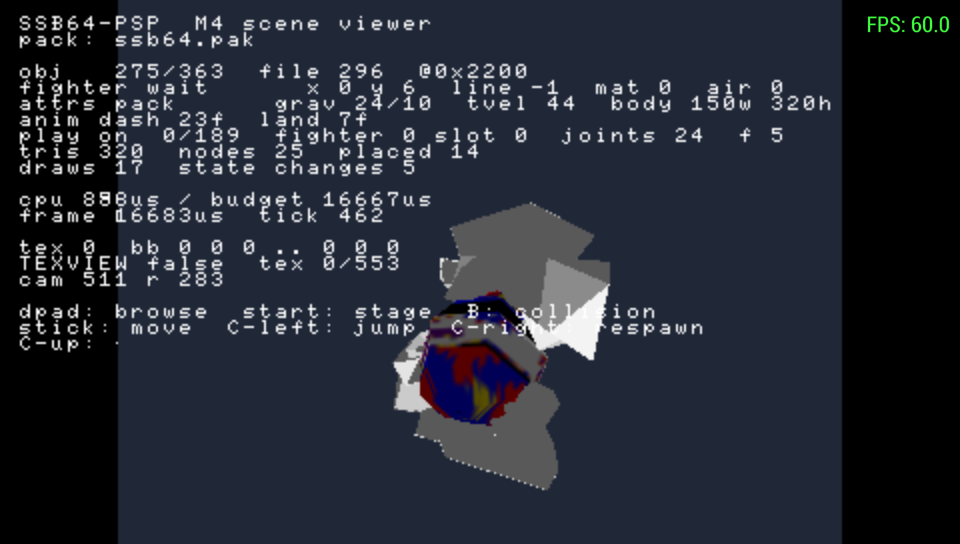
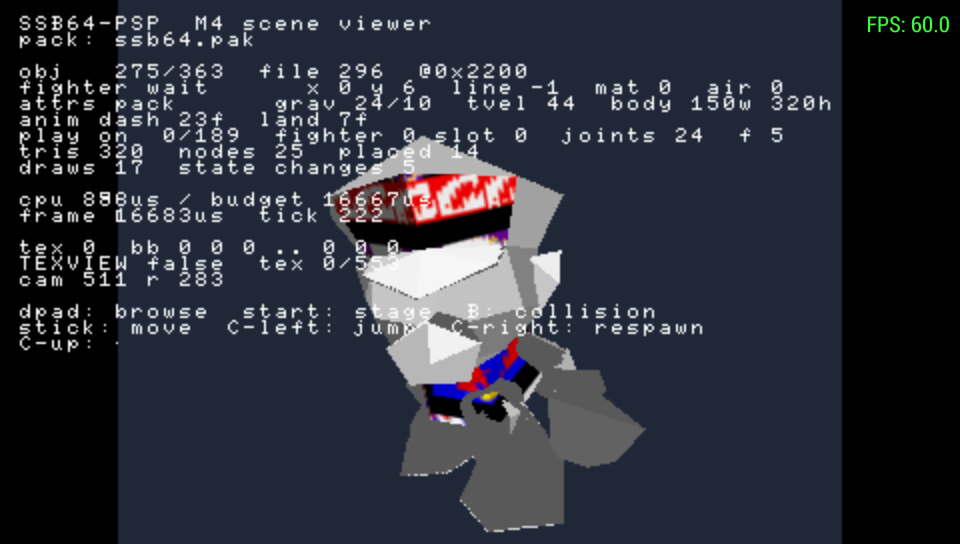
Narrow the wrong pose to one axis, and stop the viewer spinning
No fix yet. What this does is make the next attempt start from
measurements instead of from three screenshots taken at three
different angles.

That was the first thing wrong, and it was mine: the viewer advances
`spin` every tick unconditionally, so an 8-second capture shows the
model a turn and a half round from a 4-second one, and I had been
comparing them as though the difference were the pose. Playback now
holds the angle still, which is the only way the mode is usable for
what it exists for.

With the angle frozen and the extent measured per frame, the error is
on one axis: X and Y stay where they belong and Z goes from a 5-unit
spread at rest to 220. It is there at frame 0 rather than
accumulating. Z is not automatically wrong -- Mario's model is
authored facing +Z, so a leg swinging in Z is a leg swinging forward
-- but both ankles 89 units off the ground on a grounded dash is not a
stride.

Five more explanations are eliminated by measurement rather than by
reading: the rotation order (from_trs matches syMatrixRotRpyRF term
for term, and the PyrR alternative renders visibly worse), the
track-to-axis mapping, the setup_parts bit order at the raw-word
level, sibling ordering (gcAddChildForDObj appends, so a tree walk is
array order -- prepending would have looked exactly like this), and
translation and scale, which barely move.

RE-038 now names the two candidates left, with unclamped cubic
extrapolation first: the measured extent peaks mid-animation and comes
[…]

Changed region(s): [[0.3438, 0.25, 0.6875, 1.0]]

diff --git a/psp/src/main.rs b/psp/src/main.rs
@@ -483,12 +483,20 @@ unsafe fn run() -> ! {
             // while a fighter is being driven, where it is the fighter's input
             // and a camera that swung with it would be unreadable.
             let stick_drives_fighter = stage_view && sim_fighter && player.is_some();
-            spin += 0.02
-                + if stick_drives_fighter {
-                    0.0
-                } else {
-                    state.stick_x as f32 * 0.0005
-                };
+            // The slow drift exists so a *static* model can be seen from all
+            // sides without touching anything. While an animation is playing it
+            // makes the thing being judged unjudgeable: two captures seconds
+            // apart differ by most of a turn, and the difference reads as the
+            // pose having changed. That cost real time (RE-038), so playback
+            // holds the angle still and leaves the stick in charge.
+            if !anim_playing {
+                spin += 0.02;
+            }
+            spin += if stick_drives_fighter {
+                0.0
+            } else {
+                state.stick_x as f32 * 0.0005
+            };
             if spin > 2.0 * PI {
                 spin -= 2.0 * PI;
             }

diff --git a/docs/reverse-engineering.md b/docs/reverse-engineering.md
@@ -2123,25 +2123,80 @@ not:
    triangles between them, one list per node. Every mesh is rigid under its own
    joint.
 
-**What the numbers point at.** Mario's rest pose is essentially planar — every
-node sits within 5 units of `z = 0`. Twelve frames into the dash the composed
-matrices put a foot at `z = -133.8` and a hand at `z = +83.9`. Smash 64
-animations move in X and Y with small Z excursions; 130 units of depth on a
-320-tall fighter is not a pose, it is an axis. The individual joint values are
-not obviously wrong — joint 2 reads `r (0.86, 0.49, 0.15)` at frame 12 against
-`(0.45, 0.50, 0.21)` at frame 23 — so the suspicion is the *rotation* half of
-the transform rather than the interpolation feeding it: the track-to-axis
-mapping, or the order `from_trs` applies them in, being right for the small
-rest-pose rotations that the composition test covers and wrong for large ones.
+**A methodological error, corrected.** The first three screenshots were read as
+"the model is exploded". They were taken at three different, arbitrary
+rotations: the viewer does `spin += 0.02` every tick unconditionally, so an
+8-second capture shows the object a turn and a half round from where a
+4-second one does. Any comparison between them was worthless. Freezing the spin
+is what made the rest of this measurable.
 
-**Not yet investigated.** Whether `ftAnimGetTargetValue`'s `1/512` is radians at
-all, rather than a fixed-point turn; whether `nGCAnimTrackRotX..Z` map onto
-`from_trs`'s `r[0..2]` in that order; and whether the `0x8000` transform kind
-(`RecalcRotRpyRSca`, which `DObjDesc::transform_kind` already distinguishes and
-the packer currently ignores) changes how a node composes its rotation. That
-last one is the strongest lead: the packer bakes every node with `from_trs`
-regardless of its kind, which is invisible at rest if the kinds agree there.
+**Where the error actually is, measured.** Composing Mario's dash frame by
+frame and taking the extent of the mesh-bearing nodes:
 
-**Confidence: high** that the pipeline runs and that the three ruled-out causes
-are ruled out. **The pose is not validated and should not be described as
-working.** The viewer ships with playback off by default.
+```
+rest      x  -87.6..87.6   y    8.2..235.6   z   -4.5..0.1
+frame  0  x  -97.8..88.5   y   34.2..230.5   z  -76.1..69.6
+frame 12  x  -89.1..97.3   y   89.5..244.8   z -133.8..83.9
+frame 23  x  -95.7..53.9   y   17.1..220.4   z  -38.7..87.6
+```
+
+**X stays right. Y is plausible. Z goes from a 5-unit spread to a 220-unit
+one.** The error is on one axis, and it is there from frame 0 rather than
+accumulating.
+
+Z is not automatically wrong, though, and this is the part that took longest to
+get right: **Mario's model is authored facing +Z**, not +X. His shoulders span
+X (nodes at `x = ±70`), and the one descriptor `setup_parts` excludes sits at
+`z = +120`, in front of him. So a leg swinging in Z is a leg swinging
+*forward*, which is what a dash does. A stride of 80 units on a 320-tall
+fighter is a stride, not a fault. What is not plausible is both ankle nodes
+sitting 89 units off the ground at frame 12 of a grounded dash, and the head
+detaching from the neck.
+
+**Ruled out since, each by measurement rather than by reading.**
+
+* *The rotation order.* `syMatrixRotRpyRF` was compared with `Mat4::from_trs`
+  term for term — all nine elements agree once the row-major/column-major
+  transpose is accounted for, and so does `syMatrixRowscaleF` against the
+  per-column scale. The alternative order the original also ships,
+  `syMatrixRotPyrRF`, was implemented and rendered: it is visibly worse. RPY is
+  right.
+* *The track-to-axis mapping.* `FT_ANIM_ROTX/Y/Z` are bits 0/1/2, and
+  `gcPlayDObjAnimJoint` writes them to `rotate.x/y/z` in that order. Both match.
+* *The joint-to-node mapping, again, at the bit level.* Mario's `setup_parts`
+  words are `0xffffff00 0x00000000`; read most-significant-bit-first that is
+  descriptors 0..23, which is what the runtime uses. Samus's `0xfff803ff`
+  round-trips through the same reading to a 23-bit mask with a nine-descriptor
+  gap in the middle, matching her joint count.
+* *Sibling order.* `gcAddChildForDObj` walks to the end of the sibling list and
+  **appends**, so a tree walk visits nodes in descriptor-array order. Had it
+  prepended, every branch point would have been swapped — which would have
+  looked exactly like this.
+* *Translation and scale.* At frame 12 only three of Mario's 24 joints have a
+  translation that differs from rest at all, and every scale is exactly 1.0.
+  The animation moves rotations and the root, which is what a skeleton
+  animation should do.
+
+**What is left.** The individual joint rotations are not obviously wrong —
+joint 2 reads `(0.92, 0.52, 0.15)` at frame 12, a 52-degree torso pitch — but
+they are *large*, and they compound up a chain where a 72-unit neck bone
+amplifies a torso angle into a displaced head. Two candidates remain, in order:
+
+1. **Cubic extrapolation.** `gcGetAObjValue` does not clamp `length` to the
+   track's duration. A track keyed with duration `D` whose clock then advances
+   past `D` extrapolates a cubic, which grows without bound. If a track is
+   being re-keyed less often here than in the original — one missed command, or
+   a `length` reset in the wrong place — every rotation would come out too big
+   in exactly this way, worst in the middle of the animation and recovering at
+   the end. The measured extent does peak at frame 13 and come back by 23.
+2. **The transform kind.** Fighters are set up with `tk1 = 0x4B`, a value that
+   appears in no `case` of the matrix switch in `objdisplay.c`, which only goes
+   to 63. Either the decompilation's argument is wrong at that call site or the
+   kind means something not yet found; until it is known, the packer baking
+   every node with `from_trs` regardless of its `DObjDesc` nibble is an
+   assumption rather than a finding.
+
+**Confidence: high** that the pipeline runs, that the error is confined to one
+axis, and that everything listed above is genuinely eliminated. **The pose is
+not validated and must not be described as working.** The viewer ships with
+playback off by default.
